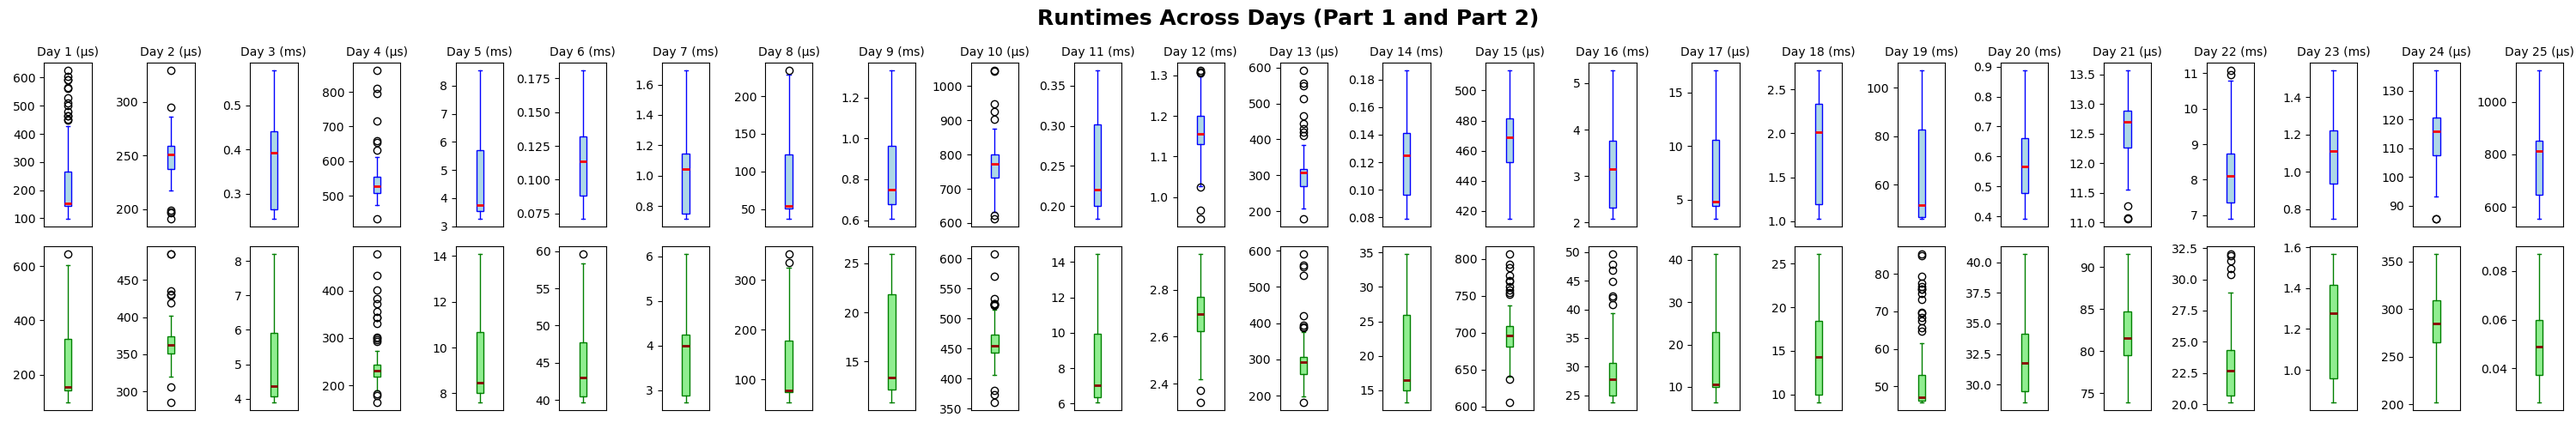
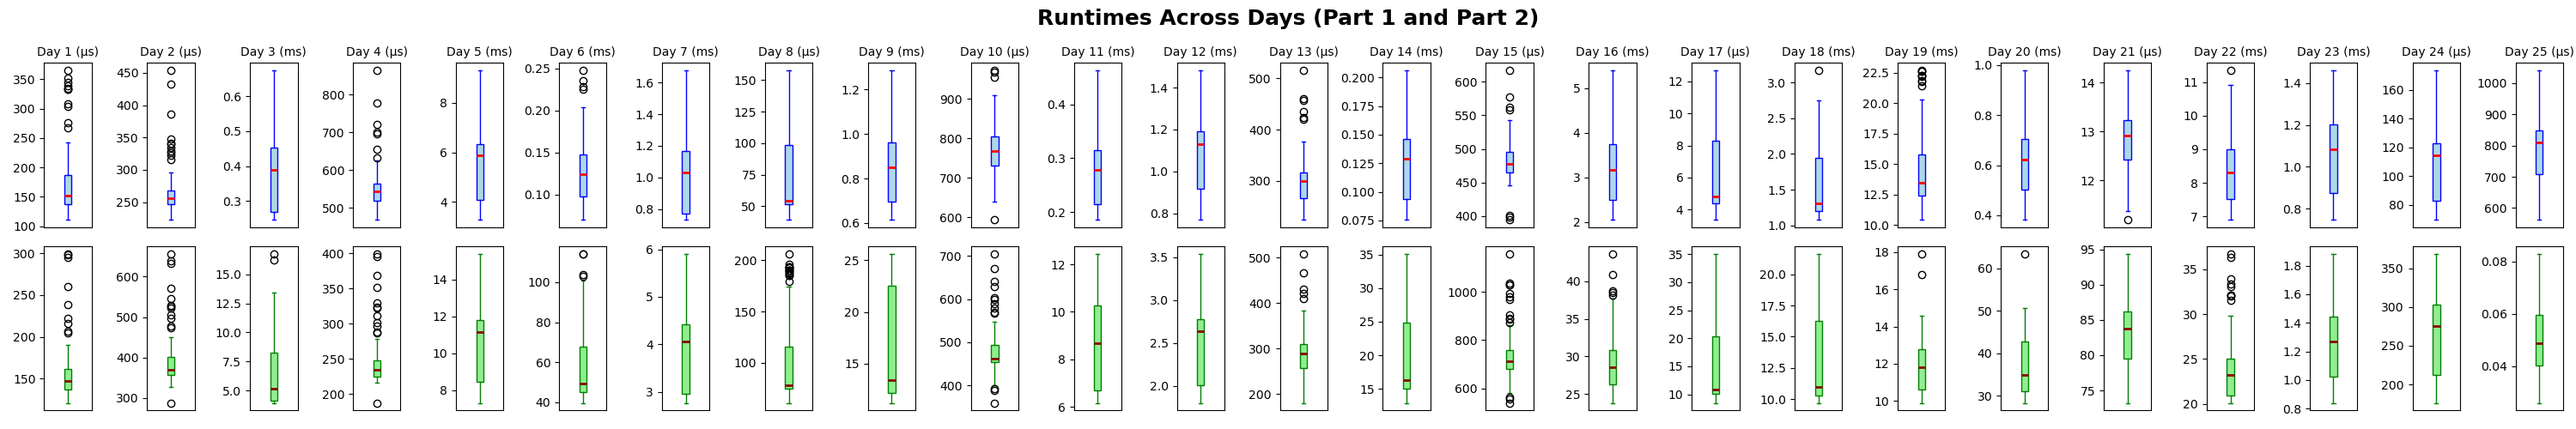
Day 19 🚀

diff --git a/day19/src/main.rs b/day19/src/main.rs
@@ -1,70 +1,22 @@
-use std::collections::HashMap;
-use std::fs;
-
-fn read_file(path: &str) -> String {
-    if fs::exists(path).expect("Could not check file") {
-        fs::read_to_string(path).expect("Could not read file")
-    } else {
-        String::new()
-    }
-}
+use ahash::{AHashMap, AHashSet};
+use utils::test_solutions;
 
 const ANSWER_ONE: u64 = 6;
 const ANSWER_TWO: u64 = 16;
 
-fn test_examples() -> (bool, bool) {
-    let mut example_1 = read_file("src/example_1");
-    let mut example_2 = read_file("src/example_2");
-    if example_1.is_empty() && !example_2.is_empty() {
-        panic!("Example 1 is empty, but example 2 is not");
-    } else if !example_1.is_empty() && example_2.is_empty() {
-        panic!("Example 2 is empty, but example 1 is not");
-    } else if example_1.is_empty() && example_2.is_empty() {
-        example_1 = read_file("src/example");
-        example_2 = example_1.clone();
-    }
-
-    let results = (first_part(&example_1), second_part(&example_2));
-
-    if results.0 != 0 && results.0 != ANSWER_ONE {
-        println!("Part One Wrong");
-    }
-
-    if results.1 != 0 && results.1 != ANSWER_TWO {
-        println!("Part Two Wrong");
-    }
-
-    (results.0 == ANSWER_ONE, results.1 == ANSWER_TWO)
-}
-
-fn test_inputs(example_solutions: (bool, bool)) {
-    let input = read_file("src/input");
-
-    if example_solutions.0 {
-        let start_time = std::time::Instant::now();
-        let result = first_part(&input);
-        let total_time = start_time.elapsed();
-        println!("Part 1 result: {}, took: {:?}", result, total_time);
-    }
-    if example_solutions.1 {
-        let start_time = std::time::Instant::now();
-        let result = second_part(&input);
-        let total_time = start_time.elapsed();
-        println!("Part 2 result: {}, took: {:?}", result, total_time);
-    }
-}
-
 fn main() {
-    let example_solutions = test_examples();
-    test_inputs(example_solutions);
+    test_solutions(&first_part, ANSWER_ONE, &second_part, ANSWER_TWO);
 }
 
 /* ------------------- Helpers ------------------- */
 
 /// Parses the input and returns a vector of available patterns and a vector of designs
-fn parse_input(input: &str) -> (Vec<&str>, usize, Vec<Vec<char>>) {
+fn parse_input(input: &str) -> (AHashSet<Vec<char>>, usize, Vec<Vec<char>>) {
     let data = input.split("\n\n").collect::<Vec<&str>>();
-    let patterns = data[0].split(", ").collect::<Vec<&str>>();
+    let patterns = data[0]
+        .split(", ")
+        .map(|x| x.chars().collect::<Vec<char>>())
+        .collect::<AHashSet<Vec<char>>>();
     let max_pattern_len = patterns.iter().map(|x| x.len()).max().unwrap();
     let designs = data[1]
         .lines()
@@ -75,10 +27,10 @@ fn parse_input(input: &str) -> (Vec<&str>, usize, Vec<Vec<char>>) {
 
 /// Checks a design and returns how many different ways it can be made
 fn check_design(
+    cache: &mut AHashMap<Vec<char>, u64>,
+    patterns: &AHashSet<Vec<char>>,
     design: &Vec<char>,
-    patterns: &Vec<&str>,
     max_pattern_len: usize,
-    cache: &mut HashMap<String, u64>,
 ) -> u64 {
     // If the design is empty, we return 1
     if design.is_empty() {
@@ -93,26 +45,24 @@ fn check_design(
 
         // Calculate the base, and if it is not in the pattern list, we skip this iteration
         let base = design[0..i + 1].to_vec();
-        let base_string = (&base).into_iter().collect::<String>();
-        if !patterns.contains(&base_string.as_str()) {
+        if !patterns.contains(&base) {
             continue;
         }
 
         // We calculate the remaining part as we will need it later
         let remaining = design[i + 1..].to_vec();
-        let remaining_string = (&remaining).into_iter().collect::<String>();
 
         // Get the remaining count from the cache if it exists and increase design counter,
         // If it doesn't exist, we call check_design for the remaining part
-        if let Some(remaining_count) = cache.get(&remaining_string) {
+        if let Some(remaining_count) = cache.get(&remaining) {
             design_counter += remaining_count;
         } else {
-            design_counter += check_design(&remaining, patterns, max_pattern_len, cache);
+            design_counter += check_design(cache, patterns, &remaining, max_pattern_len);
         }
     }
 
     // We add the base part to the cache and return the total
-    cache.insert(design.into_iter().collect::<String>(), design_counter);
+    cache.insert(design.clone(), design_counter);
     design_counter
 }
 
@@ -121,13 +71,13 @@ fn check_design(
 #[allow(unused_variables)]
 fn first_part(input: &str) -> u64 {
     let (patterns, max_pattern_len, designs) = parse_input(input);
-    let mut cache: HashMap<String, u64> = HashMap::new();
+    let mut cache = AHashMap::new();
 
     // Iterate through the designs and call the check_design function to get the number of possible designs
     // If more than 0, it is a possible design
     let mut possible_designs: u64 = 0;
     for design in designs.iter() {
-        possible_designs += check_design(design, &patterns, max_pattern_len, &mut cache).min(1);
+        possible_designs += check_design(&mut cache, &patterns, design, max_pattern_len).min(1);
     }
 
     possible_designs
@@ -136,12 +86,12 @@ fn first_part(input: &str) -> u64 {
 #[allow(unused_variables)]
 fn second_part(input: &str) -> u64 {
     let (patterns, max_pattern_len, designs) = parse_input(input);
-    let mut cache: HashMap<String, u64> = HashMap::new();
+    let mut cache = AHashMap::new();
 
     // Iterate through the designs and call the check_design function to get the number of possible designs
     let mut design_counter = 0;
     for design in designs.iter() {
-        design_counter += check_design(design, &patterns, max_pattern_len, &mut cache);
+        design_counter += check_design(&mut cache, &patterns, design, max_pattern_len);
     }
 
     design_counter

diff --git a/README.md b/README.md
@@ -37,7 +37,7 @@ The code for benchmarking is in [**benchmark.py**](./benchmark.py), also can see
 | [Day 16](./day16/src/main.rs) |  3.503ms  | 28.930ms  |
 | [Day 17](./day17/src/main.rs) |  4.689µs  | 10.741µs  |
 | [Day 18](./day18/src/main.rs) |  1.895ms  | 17.676ms  |
-| [Day 19](./day19/src/main.rs) | 48.682ms  | 46.596ms  |
+| [Day 19](./day19/src/main.rs) | 13.468ms  | 11.816ms  |
 | [Day 20](./day20/src/main.rs) | 760.122µs | 47.011ms  |
 | [Day 21](./day21/src/main.rs) | 13.387µs  | 87.894µs  |
 | [Day 22](./day22/src/main.rs) |  8.825ms  | 24.201ms  |
